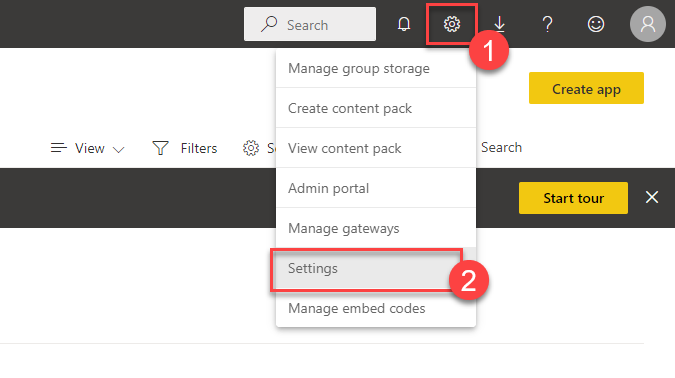
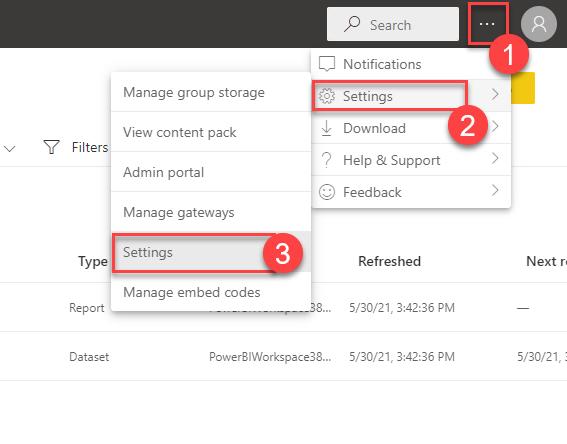
Power BI integration Q4 GA Updates

diff --git a/03-power-bi-integration.md b/03-power-bi-integration.md
@@ -110,7 +110,7 @@ If you do not see a list of data fields under Fields, follow the steps below for
 
    ![Selecting the right workspace to work on](media/ex03-selecting-workspace.png "Selecting the right workspace to work on")
 
-3. Navigate to **Settings**, then select **Settings** from the menu.
+3. Navigate to **Settings (2)**, then select **Settings (3)** from the menu.
 
    ![The Settings menu is displayed.](media/pbi-settings.png "Settings")
 
